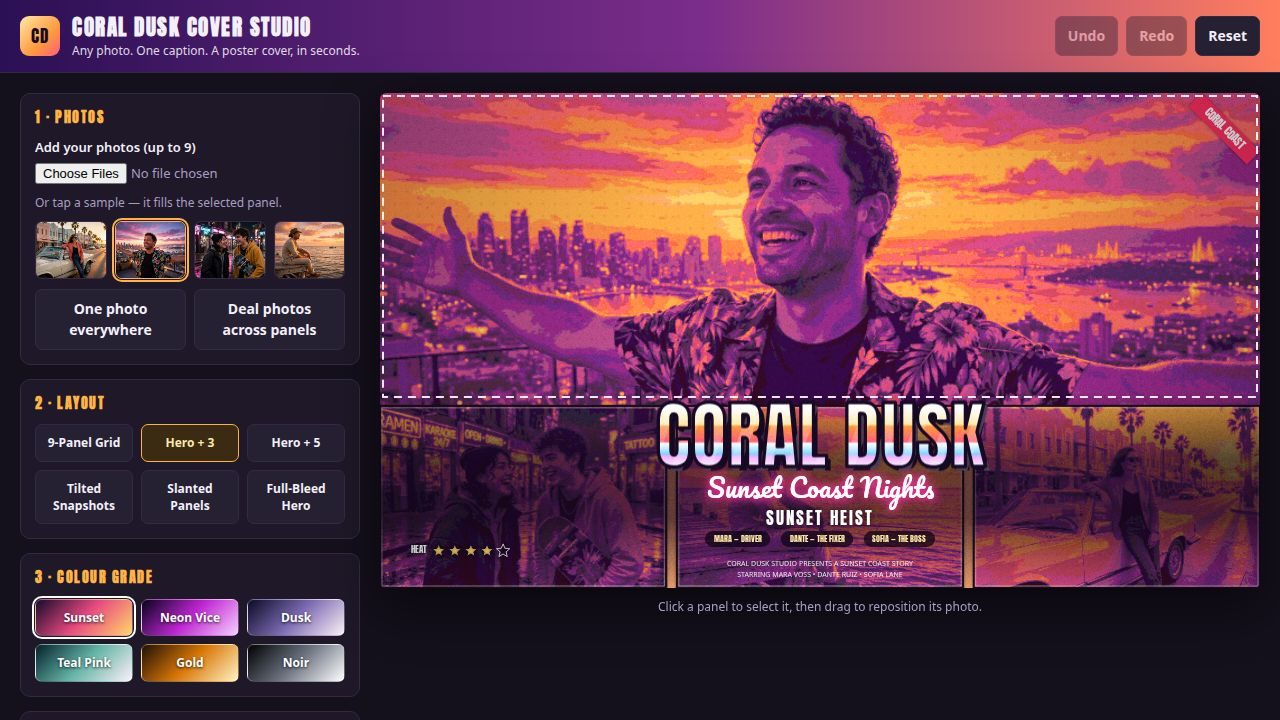
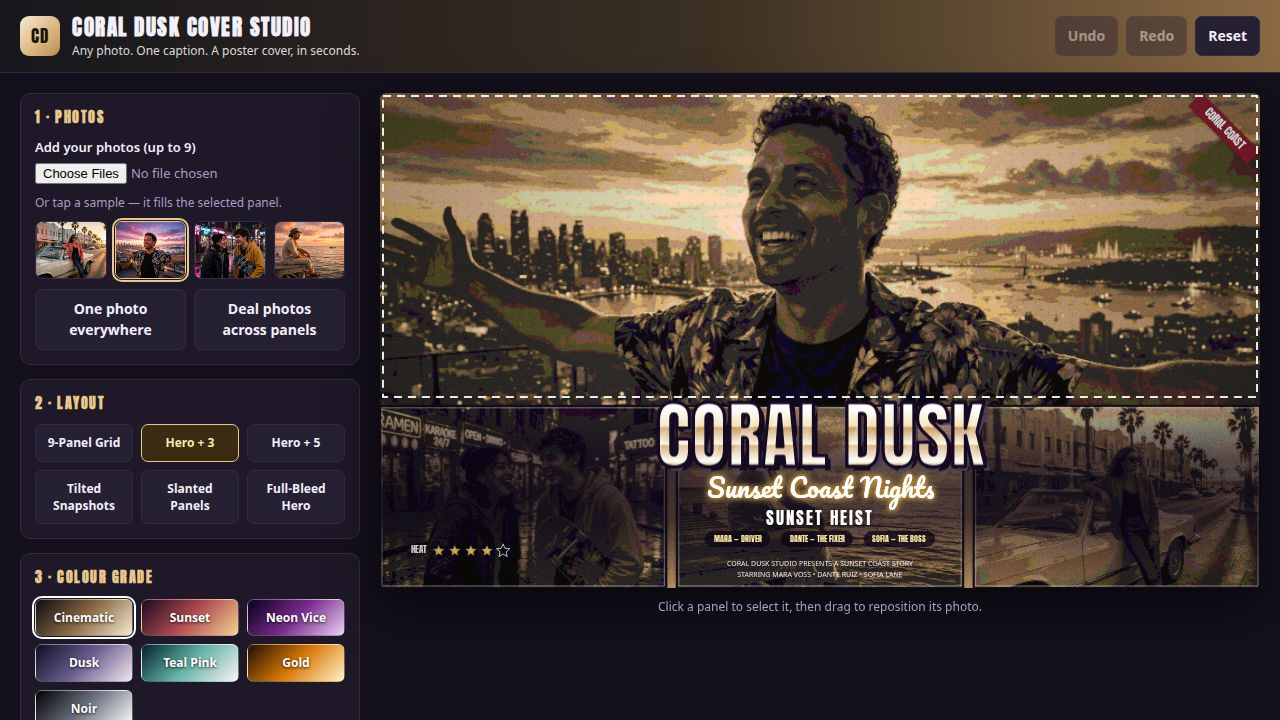
Coral Dusk Cover Studio: offline GTA-style cover art maker (6 layouts, 6 grades, chrome lettering, 4-size PNG export)

diff --git a/app/src/cover.js b/app/src/cover.js
@@ -12,23 +12,29 @@ export const APP_NAME = 'Coral Dusk Cover Studio';
 // sky colours behind the panels and a faint wash tint over the cover.
 
 export const GRADES = {
+  cinema: {
+    label: 'Cinematic',
+    stops: [[0, '#0c0b10'], [0.3, '#2a2622'], [0.55, '#8a6a44'], [0.8, '#d9b380'], [1, '#f6ead2']],
+    sky: ['#17161c', '#4a3a28', '#c9a06a'],
+    wash: 'rgba(201, 160, 106, 0.06)',
+  },
   sunset: {
     label: 'Sunset',
-    stops: [[0, '#160a2e'], [0.3, '#7b2d8b'], [0.55, '#e84a7f'], [0.8, '#ff9a3d'], [1, '#ffd76a']],
-    sky: ['#2b1055', '#ff7e5f', '#feb47b'],
-    wash: 'rgba(255, 110, 60, 0.08)',
+    stops: [[0, '#1a0b1e'], [0.3, '#5e2140'], [0.55, '#b04a52'], [0.8, '#d98a4a'], [1, '#f2d492']],
+    sky: ['#241026', '#8a3a4a', '#d99a6c'],
+    wash: 'rgba(190, 110, 70, 0.07)',
   },
   neon: {
     label: 'Neon Vice',
-    stops: [[0, '#05021a'], [0.3, '#1b0a6e'], [0.55, '#c026d3'], [0.8, '#22d3ee'], [1, '#f5d0fe']],
-    sky: ['#0b0221', '#7c3aed', '#ec4899'],
-    wash: 'rgba(190, 40, 220, 0.08)',
+    stops: [[0, '#070218'], [0.3, '#1c0f4d'], [0.55, '#7a2a8f'], [0.8, '#3f7d9e'], [1, '#e8d5f2']],
+    sky: ['#0d0320', '#4a2a7a', '#a05a8f'],
+    wash: 'rgba(140, 60, 170, 0.06)',
   },
   dusk: {
     label: 'Dusk',
-    stops: [[0, '#0a0a24'], [0.35, '#3730a3'], [0.6, '#7c6bb3'], [0.85, '#e8b4d9'], [1, '#fdf2f8']],
-    sky: ['#1e1b4b', '#6d28d9', '#c084fc'],
-    wash: 'rgba(120, 90, 220, 0.08)',
+    stops: [[0, '#0d0d20'], [0.35, '#2e2a55'], [0.6, '#6a5f8f'], [0.85, '#c9a8c4'], [1, '#f2e8ee']],
+    sky: ['#1a1836', '#4a3f6e', '#a08bb0'],
+    wash: 'rgba(100, 80, 160, 0.06)',
   },
   teal: {
     label: 'Teal Pink',
@@ -322,18 +328,17 @@ export function drawChromeTitle(ctx, text, cx, cy, maxWidth, maxSize) {
   for (let i = 6; i >= 1; i--) {
     t.fillText(text, tx + (extrude * i) / 6, ty + (extrude * i) / 6);
   }
-  // Striped chrome fill: hard-banded vertical gradient.
+  // Striped chrome fill: restrained silver-gold bands (no rainbow),
+  // so the title reads like a prestige film-poster masthead.
   const grad = t.createLinearGradient(0, ty - size / 2, 0, ty + size / 2);
   grad.addColorStop(0, '#ffffff');
-  grad.addColorStop(0.22, '#ffe9a8');
-  grad.addColorStop(0.24, '#ff9a3d');
-  grad.addColorStop(0.45, '#ff5e78');
-  grad.addColorStop(0.47, '#ffffff');
-  grad.addColorStop(0.62, '#7dd3fc');
-  grad.addColorStop(0.64, '#f0abfc');
-  grad.addColorStop(0.82, '#ffffff');
-  grad.addColorStop(0.84, '#ffd76a');
-  grad.addColorStop(1, '#ff7e5f');
+  grad.addColorStop(0.24, '#f3e2b3');
+  grad.addColorStop(0.26, '#c9a06a');
+  grad.addColorStop(0.48, '#fdf6e3');
+  grad.addColorStop(0.5, '#d9b380');
+  grad.addColorStop(0.72, '#ffffff');
+  grad.addColorStop(0.74, '#e8d5a8');
+  grad.addColorStop(1, '#b98d4f');
   t.fillStyle = grad;
   t.fillText(text, tx, ty);
   // Diagonal shine stripes clipped to the letters.
@@ -405,7 +410,7 @@ export function drawRibbonBadge(ctx, text, w, size) {
   ctx.save();
   ctx.translate(w, 0);
   ctx.rotate(Math.PI / 4);
-  ctx.fillStyle = '#ff2e63';
+  ctx.fillStyle = '#8c1d2f';
   ctx.shadowColor = 'rgba(0,0,0,0.5)';
   ctx.shadowBlur = size * 0.25;
   ctx.fillRect(-bandW / 2, d, bandW, bandH);
@@ -477,8 +482,8 @@ export function drawCover(canvas, state, photoMap) {
     ctx.textBaseline = 'middle';
     const subSize = fitFont(ctx, state.subtitle, W * 0.8, H * 0.052, 'Pacifico, cursive');
     ctx.fillStyle = '#ffffff';
-    ctx.shadowColor = '#ff2e9a';
-    ctx.shadowBlur = H * 0.02;
+    ctx.shadowColor = '#d9a441';
+    ctx.shadowBlur = H * 0.012;
     ctx.fillText(state.subtitle, W / 2, bandY + bandH * 0.28 + titleSize * 0.62);
     ctx.fillText(state.subtitle, W / 2, bandY + bandH * 0.28 + titleSize * 0.62);
     ctx.restore();

diff --git a/app/style.css b/app/style.css
@@ -22,9 +22,9 @@
   --line: #332b45;
   --text: #f4f0fa;
   --muted: #a99ec2;
-  --accent: #ff5e78;
-  --accent-2: #ffb347;
-  --accent-3: #22d3ee;
+  --accent: #d9a441;
+  --accent-2: #e8c88a;
+  --accent-3: #c9a06a;
   --radius: 10px;
 }
 
@@ -34,13 +34,13 @@ html, body { margin: 0; min-height: 100%; background: var(--bg); color: var(--te
 .topbar {
   display: flex; align-items: center; justify-content: space-between; gap: 16px;
   padding: 12px 20px; border-bottom: 1px solid var(--line);
-  background: linear-gradient(90deg, #2b1055, #7b2d8b 55%, #ff7e5f);
+  background: linear-gradient(90deg, #17161c, #3a2f22 55%, #8a6a44);
 }
 .brand { display: flex; align-items: center; gap: 12px; min-width: 0; }
 .brand-mark {
   width: 40px; height: 40px; flex: none; display: grid; place-items: center;
   font-family: 'Anton', sans-serif; font-size: 17px; letter-spacing: 1px;
-  color: #160a24; background: linear-gradient(135deg, #ffe9a8, #ff9a3d 60%, #ff5e78);
+  color: #1c1408; background: linear-gradient(135deg, #f6ead2, #d9b380 60%, #b98d4f);
   border-radius: 9px;
 }
 .topbar h1 { margin: 0; font-family: 'Anton', sans-serif; font-size: 21px; letter-spacing: 1.5px; text-transform: uppercase; }
@@ -70,9 +70,9 @@ button {
 button:hover:not(:disabled) { border-color: var(--accent-3); }
 button:disabled { opacity: 0.4; cursor: default; }
 button.primary {
-  background: linear-gradient(135deg, #ff5e78, #ff9a3d); color: #160a24; border: 0; padding: 12px;
+  background: linear-gradient(135deg, #d9b380, #b98d4f); color: #1c1408; border: 0; padding: 12px;
 }
-button.primary.alt { background: linear-gradient(135deg, #22d3ee, #c026d3); color: #fff; }
+button.primary.alt { background: linear-gradient(135deg, #8a6a44, #5c4630); color: #f6ead2; }
 button.active { border-color: var(--accent-2); background: #3a2b12; color: #ffe9a8; }
 
 .row { display: flex; gap: 8px; }
@@ -105,7 +105,7 @@ button.active { border-color: var(--accent-2); background: #3a2b12; color: #ffe9
 #cover {
   max-width: 100%; max-height: calc(100vh - 140px); width: auto; height: auto;
   border-radius: 6px; box-shadow: 0 18px 50px rgba(0, 0, 0, 0.55);
-  cursor: grab; touch-action: none; background: #2b1055;
+  cursor: grab; touch-action: none; background: #17161c;
 }
 #cover:active { cursor: grabbing; }
 .preview-hint { margin: 0; color: var(--muted); font-size: 12px; }

diff --git a/app/src/main.js b/app/src/main.js
@@ -22,7 +22,7 @@ export const ASPECTS = {
 
 const DEFAULT_STATE = {
   layout: 'hero3',
-  grade: 'sunset',
+  grade: 'cinema',
   aspect: 'landscape',
   title: 'CORAL DUSK',
   subtitle: 'Sunset Coast Nights',

diff --git a/README.md b/README.md
@@ -17,7 +17,7 @@ sample photo is a file in `app/`.
 1. Serve `app/` with any static server (`node serve.ts`, then open
    http://localhost:8080) or just open `app/index.html`.
 2. Add your own photos (up to 9) or use the 4 built-in samples.
-3. Pick one of 6 layouts, one of 6 colour grades, type the title,
+3. Pick one of 6 layouts, one of 7 colour grades, type the title,
    script subtitle and caption.
 4. Click a panel to select it, drag its photo to reposition it, use
    the zoom slider or a focus point to crop it.
@@ -28,9 +28,14 @@ sample photo is a file in `app/`.
 
 - **6 layouts** — 9-panel grid, Hero + 3, Hero + 5, Tilted Snapshots
   (polaroid frames), Slanted Panels, Full-Bleed Hero.
-- **6 grades** — Sunset, Neon Vice, Dusk, Teal Pink, Gold, Noir.
+- **7 grades** — Cinematic (the default: muted charcoal-bronze-ivory
+  prestige grade), Sunset, Neon Vice, Dusk, Teal Pink, Gold, Noir.
   Each is a real gradient-map duotone applied per pixel on canvas,
-  then posterized.
+  then posterized. The loud neon grades were toned down in the
+  colour pass: the chrome title is now restrained silver-gold
+  (no rainbow), the subtitle glow is warm gold, and the ribbon
+  badge is deep crimson — so the covers read like a prestige
+  film poster, not a neon sign.
 - **Poster Ink** — faint halftone dots + posterize + a thick ink outline
   around every panel. The halftone is deliberately subtle so it reads
   as print texture, not a visible dot grid, and the ink border follows
